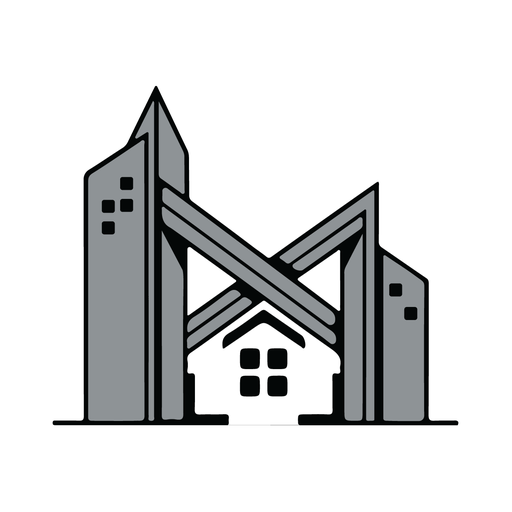
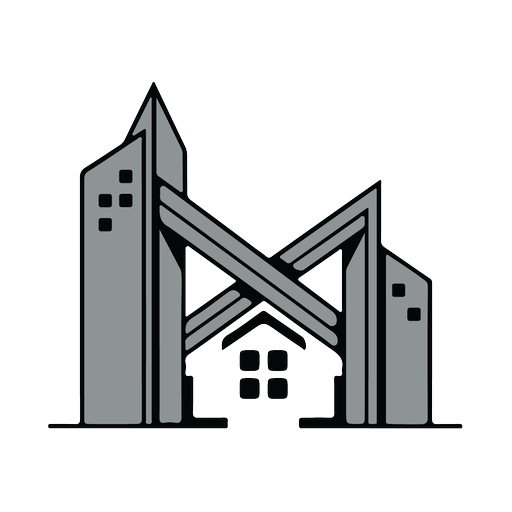
fix(brand): أيقونة المتصفّح مُفرَّغة — ومصمتةٌ منفصلة للتثبيت
كانت الأيقونتان ملفّاً واحداً بخلفيةٍ بيضاء، فظهر في شريط التبويب **مربّعٌ
أبيض** حول الرمز بدل أن يندمج مع لون الشريط (وهو داكن في الوضع الليليّ).

وعكسُها خطأٌ آخر لا يقلّ: أيقونة maskable يقصّها أندرويد دائرياً ويفرض عليها
خلفية — فالشفّافة تخرج برُقعةٍ سوداء أو حوافّ ممزّقة. فلكلٍّ ملفُّها:
icon.png مُفرَّغة للمتصفّح، وicon-maskable.png مصمتة بهامش أمان للتثبيت.

اختُبرت مرسومةً بـ16 و32 و48 بكسل على ثلاث خلفيات (فاتحة وداكنة وداكنة
جداً): الرمز مقروءٌ في الثلاث.

diff --git a/app/manifest.ts b/app/manifest.ts
@@ -16,8 +16,11 @@ export default function manifest(): MetadataRoute.Manifest {
     dir: "rtl",
     categories: ["business", "shopping", "lifestyle"],
     icons: [
+      // ⚠ **مصدران لا مصدرٌ واحد.** `any` تقبل الشفّافة وتُعرض كما هي، أمّا
+      // `maskable` فيقصّها أندرويد دائرياً ويفرض عليها خلفية — فالشفّافة تخرج
+      // مشوّهة. لكلٍّ ملفُّها: المُفرَّغة للمتصفّح، والمصمتة بهامش أمان للتثبيت.
       { src: "/icon.png", sizes: "512x512", type: "image/png", purpose: "any" },
-      { src: "/icon.png", sizes: "512x512", type: "image/png", purpose: "maskable" },
+      { src: "/icon-maskable.png", sizes: "512x512", type: "image/png", purpose: "maskable" },
     ],
   };
 }
